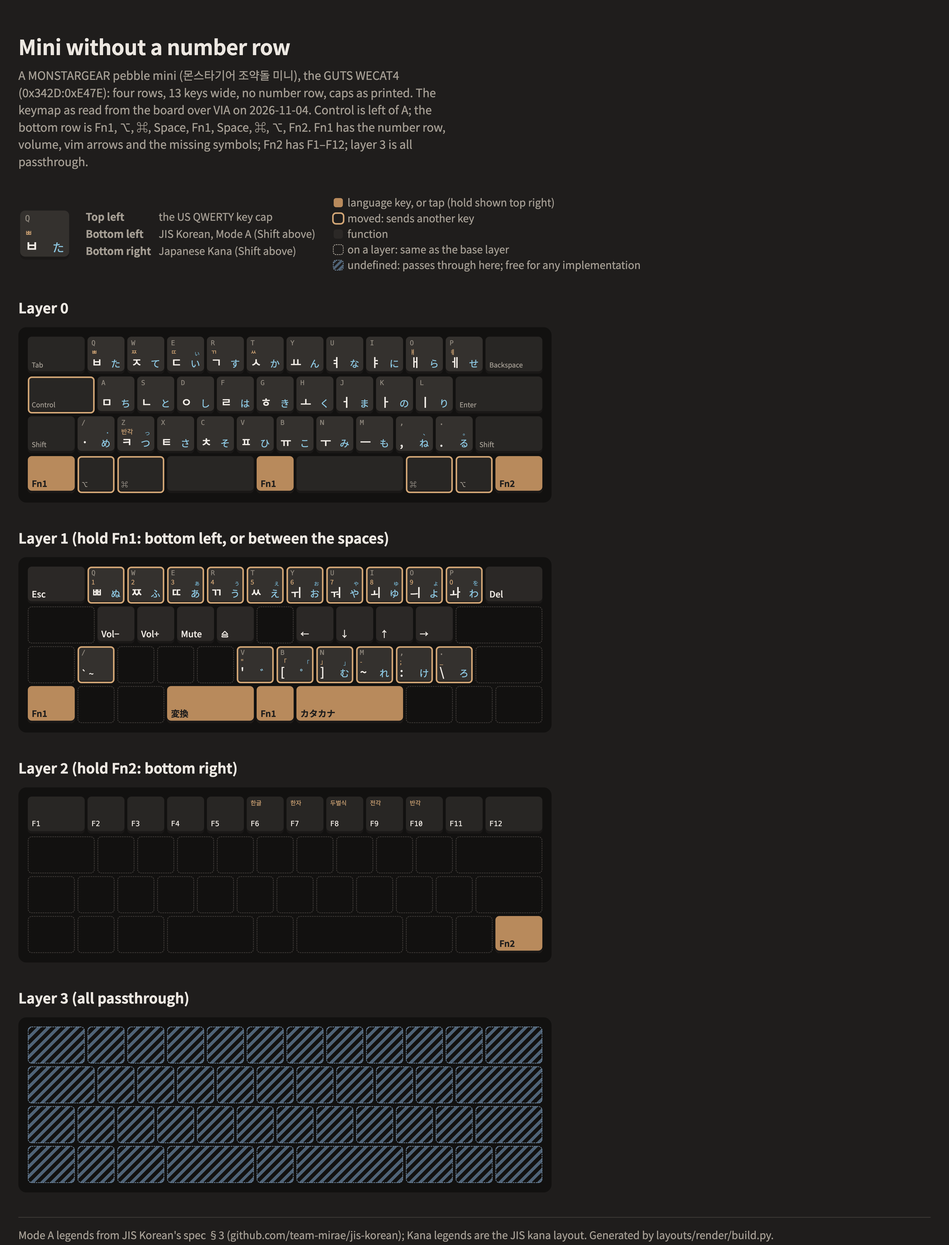
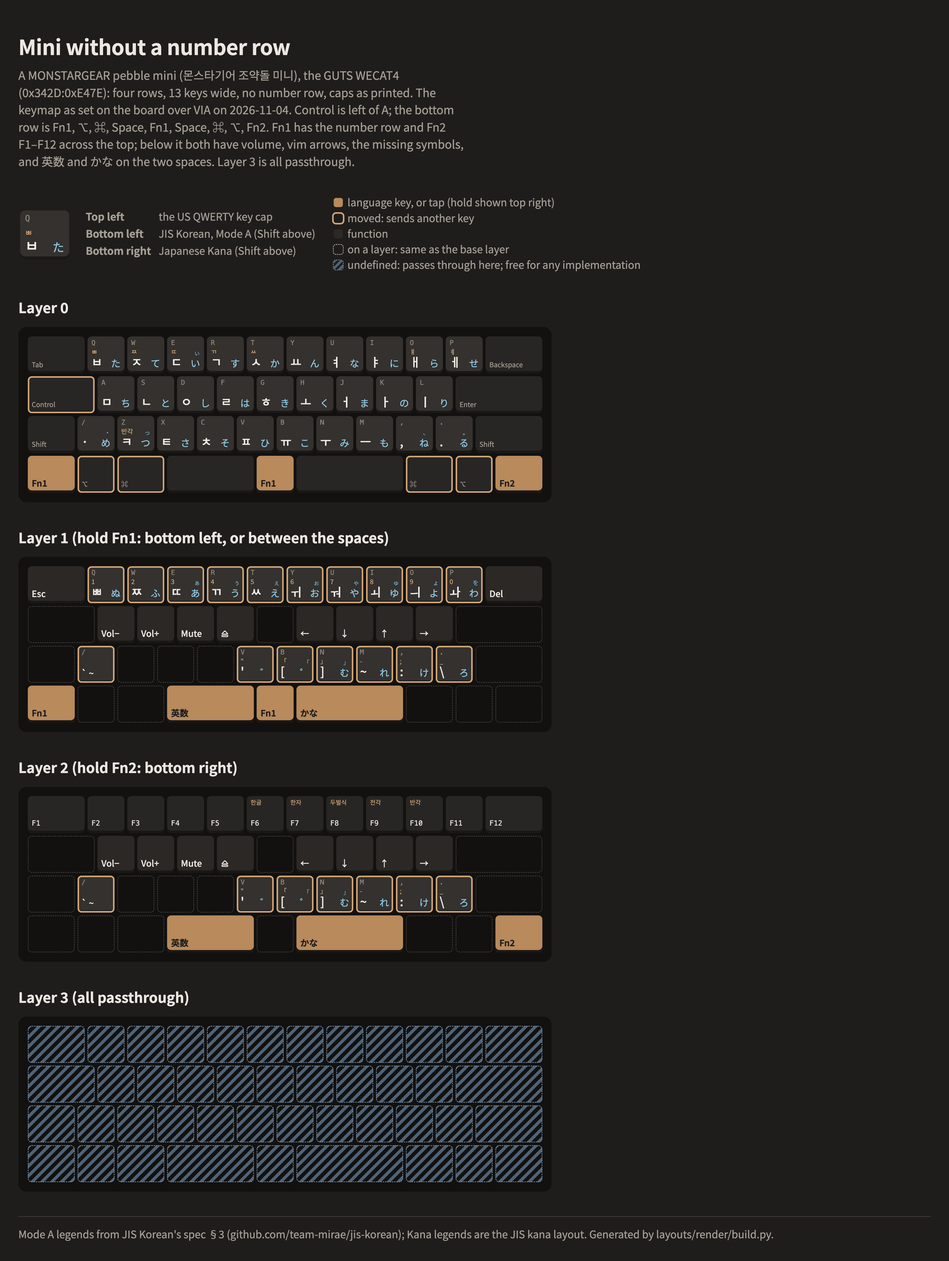
layouts/mini-numberless: 英数 and かな on Fn + Space, Fn2 the same as Fn1 below the top row
Fn1 + left / right Space were 変換 and カタカナ, which macOS drops or turns into かな; they're now
KC_LNG2 (英数) and KC_LNG1 (かな). Every key that was passthrough on Fn2 but bound on Fn1 now
has Fn1's binding, so volume, arrows, symbols and the language keys work with either Fn; Fn2's
F1-F12 are unchanged. Set on the board over VIA.

diff --git a/layouts/mini-numberless/layout.html b/layouts/mini-numberless/layout.html
@@ -76,7 +76,7 @@ footer { color: var(--muted); font-size: 0.85rem; border-top: 1px solid var(--bo
 <body>
 <main id="main"></main>
 <script>
-const DATA = {"title": "Mini without a number row", "lede": "A MONSTARGEAR pebble mini (몬스타기어 조약돌 미니), the GUTS WECAT4 (0x342D:0xE47E): four rows, 13 keys wide, no number row, caps as printed. The keymap as read from the board over VIA on 2026-11-04. Control is left of A; the bottom row is Fn1, ⌥, ⌘, Space, Fn1, Space, ⌘, ⌥, Fn2. Fn1 has the number row, volume, vim arrows and the missing symbols; Fn2 has F1–F12; layer 3 is all passthrough.", "keys": [{"id": "Tab", "us": "Tab", "x": 0.0, "y": 0.0, "w": 1.5, "h": 1}, {"id": "KeyQ", "us": "Q", "x": 1.5, "y": 0.0, "w": 1, "h": 1}, {"id": "KeyW", "us": "W", "x": 2.5, "y": 0.0, "w": 1, "h": 1}, {"id": "KeyE", "us": "E", "x": 3.5, "y": 0.0, "w": 1, "h": 1}, {"id": "KeyR", "us": "R", "x": 4.5, "y": 0.0, "w": 1, "h": 1}, {"id": "KeyT", "us": "T", "x": 5.5, "y": 0.0, "w": 1, "h": 1}, {"id": "KeyY", "us": "Y", "x": 6.5, "y": 0.0, "w": 1, "h": 1}, {"id": "KeyU", "us": "U", "x": 7.5, "y": 0.0, "w": 1, "h": 1}, {"id": "KeyI", "us": "I", "x": 8.5, "y": 0.0, "w": 1, "h": 1}, {"id": "KeyO", "us": "O", "x": 9.5, "y": 0.0, "w": 1, "h": 1}, {"id": "KeyP", "us": "P", "x": 10.5, "y": 0.0, "w": 1, "h": 1}, {"id": "Backspace", "us": "Backspace", "x": 11.5, "y": 0.0, "w": 1.5, "h": 1}, {"id": "CapsLock", "us": "Caps Lock", "x": 0.0, "y": 1.0, "w": 1.75, "h": 1}, {"id": "KeyA", "us": "A", "x": 1.75, "y": 1.0, "w": 1, "h": 1}, {"id": "KeyS", "us": "S", "x": 2.75, "y": 1.0, "w": 1, "h": 1}, {"id": "KeyD", "us": "D", "x": 3.75, "y": 1.0, "w": 1, "h": 1}, {"id": "KeyF", "us": "F", "x": 4.75, "y": 1.0, "w": 1, "h": 1}, {"id": "KeyG", "us": "G", "x": 5.75, "y": 1.0, "w": 1, "h": 1}, {"id": "KeyH", "us": "H", "x": 6.75, "y": 1.0, "w": 1, "h": 1}, {"id": "KeyJ", "us": "J", "x": 7.75, "y": 1.0, "w": 1, "h": 1}, {"id": "KeyK", "us": "K", "x": 8.75, "y": 1.0, "w": 1, "h": 1}, {"id": "KeyL", "us": "L", "x": 9.75, "y": 1.0, "w": 1, "h": 1}, {"id": "Enter", "us": "Enter", "x": 10.75, "y": 1.0, "w": 2.25, "h": 1}, {"id": "ShiftLeft", "us": "Shift", "x": 0.0, "y": 2.0, "w": 1.25, "h": 1}, {"id": "Slash", "us": "/", "x": 1.25, "y": 2.0, "w": 1, "h": 1}, {"id": "KeyZ", "us": "Z", "x": 2.25, "y": 2.0, "w": 1, "h": 1}, {"id": "KeyX", "us": "X", "x": 3.25, "y": 2.0, "w": 1, "h": 1}, {"id": "KeyC", "us": "C", "x": 4.25, "y": 2.0, "w": 1, "h": 1}, {"id": "KeyV", "us": "V", "x": 5.25, "y": 2.0, "w": 1, "h": 1}, {"id": "KeyB", "us": "B", "x": 6.25, "y": 2.0, "w": 1, "h": 1}, {"id": "KeyN", "us": "N", "x": 7.25, "y": 2.0, "w": 1, "h": 1}, {"id": "KeyM", "us": "M", "x": 8.25, "y": 2.0, "w": 1, "h": 1}, {"id": "Comma", "us": ",", "x": 9.25, "y": 2.0, "w": 1, "h": 1}, {"id": "Period", "us": ".", "x": 10.25, "y": 2.0, "w": 1, "h": 1}, {"id": "ShiftRight", "us": "Shift", "x": 11.25, "y": 2.0, "w": 1.75, "h": 1}, {"id": "ControlLeft", "us": "Ctrl", "x": 0.0, "y": 3.0, "w": 1.25, "h": 1}, {"id": "MetaLeft", "us": "Win", "x": 1.25, "y": 3.0, "w": 1, "h": 1}, {"id": "AltLeft", "us": "Alt", "x": 2.25, "y": 3.0, "w": 1.25, "h": 1}, {"id": "Space", "us": "", "x": 3.5, "y": 3.0, "w": 2.25, "h": 1}, {"id": "KeyHHKBFunctionTwo", "us": "Fn", "x": 5.75, "y": 3.0, "w": 1, "h": 1}, {"id": "SpaceRight", "us": "", "x": 6.75, "y": 3.0, "w": 2.75, "h": 1}, {"id": "AltRight", "us": "Alt", "x": 9.5, "y": 3.0, "w": 1.25, "h": 1}, {"id": "ContextMenu", "us": "Menu", "x": 10.75, "y": 3.0, "w": 1, "h": 1}, {"id": "ControlRight", "us": "Ctrl", "x": 11.75, "y": 3.0, "w": 1.25, "h": 1}], "capLegend": "the US QWERTY key cap", "plain": false, "layers": [{"name": "Layer 0", "keys": {"Tab": {"kind": "mod", "label": "Tab", "moved": false}, "KeyQ": {"kind": "send", "code": "KeyQ"}, "KeyW": {"kind": "send", "code": "KeyW"}, "KeyE": {"kind": "send", "code": "KeyE"}, "KeyR": {"kind": "send", "code": "KeyR"}, "KeyT": {"kind": "send", "code": "KeyT"}, "KeyY": {"kind": "send", "code": "KeyY"}, "KeyU": {"kind": "send", "code": "KeyU"}, "KeyI": {"kind": "send", "code": "KeyI"}, "KeyO": {"kind": "send", "code": "KeyO"}, "KeyP": {"kind": "send", "code": "KeyP"}, "Backspace": {"kind": "mod", "label": "Backspace", "moved": false}, "CapsLock": {"kind": "mod", "label": "Control", "moved": true}, "KeyA": {"kind": "send", "code": "KeyA"}, "KeyS": {"kind": "send", "code": "KeyS"}, "KeyD": {"kind": "send", "code": "KeyD"}, "KeyF": {"kind": "send", "code": "KeyF"}, "KeyG": {"kind": "send", "code": "KeyG"}, "KeyH": {"kind": "send", "code": "KeyH"}, "KeyJ": {"kind": "send", "code": "KeyJ"}, "KeyK": {"kind": "send", "code": "KeyK"}, "KeyL": {"kind": "send", "code": "KeyL"}, "Enter": {"kind": "mod", "label": "Enter", "moved": false}, "ShiftLeft": {"kind": "mod", "label": "Shift", "moved": false}, "Slash": {"kind": "send", "code": "Slash"}, "KeyZ": {"kind": "send", "code": "KeyZ"}, "KeyX": {"kind": "send", "code": "KeyX"}, "KeyC": {"kind": "send", "code": "KeyC"}, "KeyV": {"kind": "send", "code": "KeyV"}, "KeyB": {"kind": "send", "code": "KeyB"}, "KeyN": {"kind": "send", "code": "KeyN"}, "KeyM": {"kind": "send", "code": "KeyM"}, "Comma": {"kind": "send", "code": "Comma"}, "Period": {"kind": "send", "code": "Period"}, "ShiftRight": {"kind": "mod", "label": "Shift", "moved": false}, "ControlLeft": {"kind": "lang", "tap": "Fn1", "hold": ""}, "MetaLeft": {"kind": "mod", "label": "⌥", "moved": true}, "AltLeft": {"kind": "mod", "label": "⌘", "moved": true}, "Space": {"kind": "mod", "label": "", "moved": false}, "KeyHHKBFunctionTwo": {"kind": "lang", "tap": "Fn1", "hold": ""}, "SpaceRight": {"kind": "mod", "label": "", "moved": false}, "AltRight": {"kind": "mod", "label": "⌘", "moved": true}, "ContextMenu": {"kind": "mod", "label": "⌥", "moved": true}, "ControlRight": {"kind": "lang", "tap": "Fn2", "hold": ""}}}, {"name": "Layer 1 (hold Fn1: bottom left, or between the spaces)", "keys": {"Tab": {"kind": "fn", "label": "Esc", "small": "", "moved": false}, "KeyQ": {"kind": "send", "code": "Digit1"}, "KeyW": {"kind": "send", "code": "Digit2"}, "KeyE": {"kind": "send", "code": "Digit3"}, "KeyR": {"kind": "send", "code": "Digit4"}, "KeyT": {"kind": "send", "code": "Digit5"}, "KeyY": {"kind": "send", "code": "Digit6"}, "KeyU": {"kind": "send", "code": "Digit7"}, "KeyI": {"kind": "send", "code": "Digit8"}, "KeyO": {"kind": "send", "code": "Digit9"}, "KeyP": {"kind": "send", "code": "Digit0"}, "Backspace": {"kind": "fn", "label": "Del", "small": "", "moved": false}, "CapsLock": {"kind": "blank"}, "KeyA": {"kind": "fn", "label": "Vol−", "small": "", "moved": false}, "KeyS": {"kind": "fn", "label": "Vol+", "small": "", "moved": false}, "KeyD": {"kind": "fn", "label": "Mute", "small": "", "moved": false}, "KeyF": {"kind": "fn", "label": "⏏", "small": "", "moved": false}, "KeyG": {"kind": "blank"}, "KeyH": {"kind": "fn", "label": "←", "small": "", "moved": false}, "KeyJ": {"kind": "fn", "label": "↓", "small": "", "moved": false}, "KeyK": {"kind": "fn", "label": "↑", "small": "", "moved": false}, "KeyL": {"kind": "fn", "label": "→", "small": "", "moved": false}, "Enter": {"kind": "blank"}, "ShiftLeft": {"kind": "blank"}, "Slash": {"kind": "send", "code": "Backquote"}, "KeyZ": {"kind": "blank"}, "KeyX": {"kind": "blank"}, "KeyC": {"kind": "blank"}, "KeyV": {"kind": "send", "code": "BracketLeft"}, "KeyB": {"kind": "send", "code": "BracketRight"}, "KeyN": {"kind": "send", "code": "Backslash"}, "KeyM": {"kind": "send", "code": "Semicolon"}, "Comma": {"kind": "send", "code": "Quote"}, "Period": {"kind": "send", "code": "IntlRo"}, "ShiftRight": {"kind": "blank"}, "ControlLeft": {"kind": "lang", "tap": "Fn1", "hold": ""}, "MetaLeft": {"kind": "blank"}, "AltLeft": {"kind": "blank"}, "Space": {"kind": "lang", "tap": "変換", "hold": ""}, "KeyHHKBFunctionTwo": {"kind": "lang", "tap": "Fn1", "hold": ""}, "SpaceRight": {"kind": "lang", "tap": "カタカナ", "hold": ""}, "AltRight": {"kind": "blank"}, "ContextMenu": {"kind": "blank"}, "ControlRight": {"kind": "blank"}}}, {"name": "Layer 2 (hold Fn2: bottom right)", "keys": {"Tab": {"kind": "fkey", "label": "F1", "jk": "", "moved": false}, "KeyQ": {"kind": "fkey", "label": "F2", "jk": "", "moved": false}, "KeyW": {"kind": "fkey", "label": "F3", "jk": "", "moved": false}, "KeyE": {"kind": "fkey", "label": "F4", "jk": "", "moved": false}, "KeyR": {"kind": "fkey", "label": "F5", "jk": "", "moved": false}, "KeyT": {"kind": "fkey", "label": "F6", "jk": "한글", "moved": false}, "KeyY": {"kind": "fkey", "label": "F7", "jk": "한자", "moved": false}, "KeyU": {"kind": "fkey", "label": "F8", "jk": "두벌식", "moved": false}, "KeyI": {"kind": "fkey", "label": "F9", "jk": "전각", "moved": false}, "KeyO": {"kind": "fkey", "label": "F10", "jk": "반각", "moved": false}, "KeyP": {"kind": "fkey", "label": "F11", "jk": "", "moved": false}, "Backspace": {"kind": "fkey", "label": "F12", "jk": "", "moved": false}, "CapsLock": {"kind": "blank"}, "KeyA": {"kind": "blank"}, "KeyS": {"kind": "blank"}, "KeyD": {"kind": "blank"}, "KeyF": {"kind": "blank"}, "KeyG": {"kind": "blank"}, "KeyH": {"kind": "blank"}, "KeyJ": {"kind": "blank"}, "KeyK": {"kind": "blank"}, "KeyL": {"kind": "blank"}, "Enter": {"kind": "blank"}, "ShiftLeft": {"kind": "blank"}, "Slash": {"kind": "blank"}, "KeyZ": {"kind": "blank"}, "KeyX": {"kind": "blank"}, "KeyC": {"kind": "blank"}, "KeyV": {"kind": "blank"}, "KeyB": {"kind": "blank"}, "KeyN": {"kind": "blank"}, "KeyM": {"kind": "blank"}, "Comma": {"kind": "blank"}, "Period": {"kind": "blank"}, "ShiftRight": {"kind": "blank"}, "ControlLeft": {"kind": "blank"}, "MetaLeft": {"kind": "blank"}, "AltLeft": {"kind": "blank"}, "Space": {"kind": "blank"}, "KeyHHKBFunctionTwo": {"kind": "blank"}, "SpaceRight": {"kind": "blank"}, "AltRight": {"kind": "blank"}, "ContextMenu": {"kind": "blank"}, "ControlRight": {"kind": "lang", "tap": "Fn2", "hold": ""}}}, {"name": "Layer 3 (all passthrough)", "keys": {"Tab": {"kind": "undef"}, "KeyQ": {"kind": "undef"}, "KeyW": {"kind": "undef"}, "KeyE": {"kind": "undef"}, "KeyR": {"kind": "undef"}, "KeyT": {"kind": "undef"}, "KeyY": {"kind": "undef"}, "KeyU": {"kind": "undef"}, "KeyI": {"kind": "undef"}, "KeyO": {"kind": "undef"}, "KeyP": {"kind": "undef"}, "Backspace": {"kind": "undef"}, "CapsLock": {"kind": "undef"}, "KeyA": {"kind": "undef"}, "KeyS": {"kind": "undef"}, "KeyD": {"kind": "undef"}, "KeyF": {"kind": "undef"}, "KeyG": {"kind": "undef"}, "KeyH": {"kind": "undef"}, "KeyJ": {"kind": "undef"}, "KeyK": {"kind": "undef"}, "KeyL": {"kind": "undef"}, "Enter": {"kind": "undef"}, "ShiftLeft": {"kind": "undef"}, "Slash": {"kind": "undef"}, "KeyZ": {"kind": "undef"}, "KeyX": {"kind": "undef"}, "KeyC": {"kind": "undef"}, "KeyV": {"kind": "undef"}, "KeyB": {"kind": "undef"}, "KeyN": {"kind": "undef"}, "KeyM": {"kind": "undef"}, "Comma": {"kind": "undef"}, "Period": {"kind": "undef"}, "ShiftRight": {"kind": "undef"}, "ControlLeft": {"kind": "undef"}, "MetaLeft": {"kind": "undef"}, "AltLeft": {"kind": "undef"}, "Space": {"kind": "undef"}, "KeyHHKBFunctionTwo": {"kind": "undef"}, "SpaceRight": {"kind": "undef"}, "AltRight": {"kind": "undef"}, "ContextMenu": {"kind": "undef"}, "ControlRight": {"kind": "undef"}}}], "modeA": {"Digit1": ["ㅃ", "1"], "Digit2": ["ㅉ", "2"], "Digit3": ["ㄸ", "3"], "Digit4": ["ㄲ", "4"], "Digit5": ["ㅆ", "5"], "Digit6": ["ㅟ", "6"], "Digit7": ["ㅝ", "7"], "Digit8": ["ㅚ", "8"], "Digit9": ["ㅢ", "9"], "Digit0": ["ㅘ", "0"], "Minus": ["!", "?"], "Equal": ["(", ")"], "IntlYen": ["—", "^"], "KeyQ": ["ㅂ", "ㅃ"], "KeyW": ["ㅈ", "ㅉ"], "KeyE": ["ㄷ", "ㄸ"], "KeyR": ["ㄱ", "ㄲ"], "KeyT": ["ㅅ", "ㅆ"], "KeyY": ["ㅛ", null], "KeyU": ["ㅕ", null], "KeyI": ["ㅑ", null], "KeyO": ["ㅐ", "ㅒ"], "KeyP": ["ㅔ", "ㅖ"], "BracketLeft": ["'", "\""], "BracketRight": ["[", "「"], "KeyA": ["ㅁ", null], "KeyS": ["ㄴ", null], "KeyD": ["ㅇ", null], "KeyF": ["ㄹ", null], "KeyG": ["ㅎ", null], "KeyH": ["ㅗ", null], "KeyJ": ["ㅓ", null], "KeyK": ["ㅏ", null], "KeyL": ["ㅣ", null], "Semicolon": ["~", "-"], "Quote": [":", ";"], "Backslash": ["]", "」"], "KeyZ": ["ㅋ", "반각"], "KeyX": ["ㅌ", null], "KeyC": ["ㅊ", null], "KeyV": ["ㅍ", null], "KeyB": ["ㅠ", null], "KeyN": ["ㅜ", null], "KeyM": ["ㅡ", null], "Comma": [",", null], "Period": [".", null], "Slash": ["·", null], "IntlRo": ["\\", "_"]}, "kana": {"Digit1": ["ぬ", null], "Digit2": ["ふ", null], "Digit3": ["あ", "ぁ"], "Digit4": ["う", "ぅ"], "Digit5": ["え", "ぇ"], "Digit6": ["お", "ぉ"], "Digit7": ["や", "ゃ"], "Digit8": ["ゆ", "ゅ"], "Digit9": ["よ", "ょ"], "Digit0": ["わ", "を"], "Minus": ["ほ", null], "Equal": ["へ", null], "IntlYen": ["ー", null], "KeyQ": ["た", null], "KeyW": ["て", null], "KeyE": ["い", "ぃ"], "KeyR": ["す", null], "KeyT": ["か", null], "KeyY": ["ん", null], "KeyU": ["な", null], "KeyI": ["に", null], "KeyO": ["ら", null], "KeyP": ["せ", null], "BracketLeft": ["゛", null], "BracketRight": ["゜", "「"], "KeyA": ["ち", null], "KeyS": ["と", null], "KeyD": ["し", null], "KeyF": ["は", null], "KeyG": ["き", null], "KeyH": ["く", null], "KeyJ": ["ま", null], "KeyK": ["の", null], "KeyL": ["り", null], "Semicolon": ["れ", null], "Quote": ["け", null], "Backslash": ["む", "」"], "KeyZ": ["つ", "っ"], "KeyX": ["さ", null], "KeyC": ["そ", null], "KeyV": ["ひ", null], "KeyB": ["こ", null], "KeyN": ["み", null], "KeyM": ["も", null], "Comma": ["ね", "、"], "Period": ["る", "。"], "Slash": ["め", "・"], "IntlRo": ["ろ", null]}, "koLegend": "JIS Korean, Mode A (Shift above)", "kanaLegend": "Japanese Kana (Shift above)", "footer": "Mode A legends from JIS Korean's spec §3 (github.com/team-mirae/jis-korean); Kana legends are the JIS kana layout. "};
+const DATA = {"title": "Mini without a number row", "lede": "A MONSTARGEAR pebble mini (몬스타기어 조약돌 미니), the GUTS WECAT4 (0x342D:0xE47E): four rows, 13 keys wide, no number row, caps as printed. The keymap as set on the board over VIA on 2026-11-04. Control is left of A; the bottom row is Fn1, ⌥, ⌘, Space, Fn1, Space, ⌘, ⌥, Fn2. Fn1 has the number row and Fn2 F1–F12 across the top; below it both have volume, vim arrows, the missing symbols, and 英数 and かな on the two spaces. Layer 3 is all passthrough.", "keys": [{"id": "Tab", "us": "Tab", "x": 0.0, "y": 0.0, "w": 1.5, "h": 1}, {"id": "KeyQ", "us": "Q", "x": 1.5, "y": 0.0, "w": 1, "h": 1}, {"id": "KeyW", "us": "W", "x": 2.5, "y": 0.0, "w": 1, "h": 1}, {"id": "KeyE", "us": "E", "x": 3.5, "y": 0.0, "w": 1, "h": 1}, {"id": "KeyR", "us": "R", "x": 4.5, "y": 0.0, "w": 1, "h": 1}, {"id": "KeyT", "us": "T", "x": 5.5, "y": 0.0, "w": 1, "h": 1}, {"id": "KeyY", "us": "Y", "x": 6.5, "y": 0.0, "w": 1, "h": 1}, {"id": "KeyU", "us": "U", "x": 7.5, "y": 0.0, "w": 1, "h": 1}, {"id": "KeyI", "us": "I", "x": 8.5, "y": 0.0, "w": 1, "h": 1}, {"id": "KeyO", "us": "O", "x": 9.5, "y": 0.0, "w": 1, "h": 1}, {"id": "KeyP", "us": "P", "x": 10.5, "y": 0.0, "w": 1, "h": 1}, {"id": "Backspace", "us": "Backspace", "x": 11.5, "y": 0.0, "w": 1.5, "h": 1}, {"id": "CapsLock", "us": "Caps Lock", "x": 0.0, "y": 1.0, "w": 1.75, "h": 1}, {"id": "KeyA", "us": "A", "x": 1.75, "y": 1.0, "w": 1, "h": 1}, {"id": "KeyS", "us": "S", "x": 2.75, "y": 1.0, "w": 1, "h": 1}, {"id": "KeyD", "us": "D", "x": 3.75, "y": 1.0, "w": 1, "h": 1}, {"id": "KeyF", "us": "F", "x": 4.75, "y": 1.0, "w": 1, "h": 1}, {"id": "KeyG", "us": "G", "x": 5.75, "y": 1.0, "w": 1, "h": 1}, {"id": "KeyH", "us": "H", "x": 6.75, "y": 1.0, "w": 1, "h": 1}, {"id": "KeyJ", "us": "J", "x": 7.75, "y": 1.0, "w": 1, "h": 1}, {"id": "KeyK", "us": "K", "x": 8.75, "y": 1.0, "w": 1, "h": 1}, {"id": "KeyL", "us": "L", "x": 9.75, "y": 1.0, "w": 1, "h": 1}, {"id": "Enter", "us": "Enter", "x": 10.75, "y": 1.0, "w": 2.25, "h": 1}, {"id": "ShiftLeft", "us": "Shift", "x": 0.0, "y": 2.0, "w": 1.25, "h": 1}, {"id": "Slash", "us": "/", "x": 1.25, "y": 2.0, "w": 1, "h": 1}, {"id": "KeyZ", "us": "Z", "x": 2.25, "y": 2.0, "w": 1, "h": 1}, {"id": "KeyX", "us": "X", "x": 3.25, "y": 2.0, "w": 1, "h": 1}, {"id": "KeyC", "us": "C", "x": 4.25, "y": 2.0, "w": 1, "h": 1}, {"id": "KeyV", "us": "V", "x": 5.25, "y": 2.0, "w": 1, "h": 1}, {"id": "KeyB", "us": "B", "x": 6.25, "y": 2.0, "w": 1, "h": 1}, {"id": "KeyN", "us": "N", "x": 7.25, "y": 2.0, "w": 1, "h": 1}, {"id": "KeyM", "us": "M", "x": 8.25, "y": 2.0, "w": 1, "h": 1}, {"id": "Comma", "us": ",", "x": 9.25, "y": 2.0, "w": 1, "h": 1}, {"id": "Period", "us": ".", "x": 10.25, "y": 2.0, "w": 1, "h": 1}, {"id": "ShiftRight", "us": "Shift", "x": 11.25, "y": 2.0, "w": 1.75, "h": 1}, {"id": "ControlLeft", "us": "Ctrl", "x": 0.0, "y": 3.0, "w": 1.25, "h": 1}, {"id": "MetaLeft", "us": "Win", "x": 1.25, "y": 3.0, "w": 1, "h": 1}, {"id": "AltLeft", "us": "Alt", "x": 2.25, "y": 3.0, "w": 1.25, "h": 1}, {"id": "Space", "us": "", "x": 3.5, "y": 3.0, "w": 2.25, "h": 1}, {"id": "KeyHHKBFunctionTwo", "us": "Fn", "x": 5.75, "y": 3.0, "w": 1, "h": 1}, {"id": "SpaceRight", "us": "", "x": 6.75, "y": 3.0, "w": 2.75, "h": 1}, {"id": "AltRight", "us": "Alt", "x": 9.5, "y": 3.0, "w": 1.25, "h": 1}, {"id": "ContextMenu", "us": "Menu", "x": 10.75, "y": 3.0, "w": 1, "h": 1}, {"id": "ControlRight", "us": "Ctrl", "x": 11.75, "y": 3.0, "w": 1.25, "h": 1}], "capLegend": "the US QWERTY key cap", "plain": false, "layers": [{"name": "Layer 0", "keys": {"Tab": {"kind": "mod", "label": "Tab", "moved": false}, "KeyQ": {"kind": "send", "code": "KeyQ"}, "KeyW": {"kind": "send", "code": "KeyW"}, "KeyE": {"kind": "send", "code": "KeyE"}, "KeyR": {"kind": "send", "code": "KeyR"}, "KeyT": {"kind": "send", "code": "KeyT"}, "KeyY": {"kind": "send", "code": "KeyY"}, "KeyU": {"kind": "send", "code": "KeyU"}, "KeyI": {"kind": "send", "code": "KeyI"}, "KeyO": {"kind": "send", "code": "KeyO"}, "KeyP": {"kind": "send", "code": "KeyP"}, "Backspace": {"kind": "mod", "label": "Backspace", "moved": false}, "CapsLock": {"kind": "mod", "label": "Control", "moved": true}, "KeyA": {"kind": "send", "code": "KeyA"}, "KeyS": {"kind": "send", "code": "KeyS"}, "KeyD": {"kind": "send", "code": "KeyD"}, "KeyF": {"kind": "send", "code": "KeyF"}, "KeyG": {"kind": "send", "code": "KeyG"}, "KeyH": {"kind": "send", "code": "KeyH"}, "KeyJ": {"kind": "send", "code": "KeyJ"}, "KeyK": {"kind": "send", "code": "KeyK"}, "KeyL": {"kind": "send", "code": "KeyL"}, "Enter": {"kind": "mod", "label": "Enter", "moved": false}, "ShiftLeft": {"kind": "mod", "label": "Shift", "moved": false}, "Slash": {"kind": "send", "code": "Slash"}, "KeyZ": {"kind": "send", "code": "KeyZ"}, "KeyX": {"kind": "send", "code": "KeyX"}, "KeyC": {"kind": "send", "code": "KeyC"}, "KeyV": {"kind": "send", "code": "KeyV"}, "KeyB": {"kind": "send", "code": "KeyB"}, "KeyN": {"kind": "send", "code": "KeyN"}, "KeyM": {"kind": "send", "code": "KeyM"}, "Comma": {"kind": "send", "code": "Comma"}, "Period": {"kind": "send", "code": "Period"}, "ShiftRight": {"kind": "mod", "label": "Shift", "moved": false}, "ControlLeft": {"kind": "lang", "tap": "Fn1", "hold": ""}, "MetaLeft": {"kind": "mod", "label": "⌥", "moved": true}, "AltLeft": {"kind": "mod", "label": "⌘", "moved": true}, "Space": {"kind": "mod", "label": "", "moved": false}, "KeyHHKBFunctionTwo": {"kind": "lang", "tap": "Fn1", "hold": ""}, "SpaceRight": {"kind": "mod", "label": "", "moved": false}, "AltRight": {"kind": "mod", "label": "⌘", "moved": true}, "ContextMenu": {"kind": "mod", "label": "⌥", "moved": true}, "ControlRight": {"kind": "lang", "tap": "Fn2", "hold": ""}}}, {"name": "Layer 1 (hold Fn1: bottom left, or between the spaces)", "keys": {"Tab": {"kind": "fn", "label": "Esc", "small": "", "moved": false}, "KeyQ": {"kind": "send", "code": "Digit1"}, "KeyW": {"kind": "send", "code": "Digit2"}, "KeyE": {"kind": "send", "code": "Digit3"}, "KeyR": {"kind": "send", "code": "Digit4"}, "KeyT": {"kind": "send", "code": "Digit5"}, "KeyY": {"kind": "send", "code": "Digit6"}, "KeyU": {"kind": "send", "code": "Digit7"}, "KeyI": {"kind": "send", "code": "Digit8"}, "KeyO": {"kind": "send", "code": "Digit9"}, "KeyP": {"kind": "send", "code": "Digit0"}, "Backspace": {"kind": "fn", "label": "Del", "small": "", "moved": false}, "CapsLock": {"kind": "blank"}, "KeyA": {"kind": "fn", "label": "Vol−", "small": "", "moved": false}, "KeyS": {"kind": "fn", "label": "Vol+", "small": "", "moved": false}, "KeyD": {"kind": "fn", "label": "Mute", "small": "", "moved": false}, "KeyF": {"kind": "fn", "label": "⏏", "small": "", "moved": false}, "KeyG": {"kind": "blank"}, "KeyH": {"kind": "fn", "label": "←", "small": "", "moved": false}, "KeyJ": {"kind": "fn", "label": "↓", "small": "", "moved": false}, "KeyK": {"kind": "fn", "label": "↑", "small": "", "moved": false}, "KeyL": {"kind": "fn", "label": "→", "small": "", "moved": false}, "Enter": {"kind": "blank"}, "ShiftLeft": {"kind": "blank"}, "Slash": {"kind": "send", "code": "Backquote"}, "KeyZ": {"kind": "blank"}, "KeyX": {"kind": "blank"}, "KeyC": {"kind": "blank"}, "KeyV": {"kind": "send", "code": "BracketLeft"}, "KeyB": {"kind": "send", "code": "BracketRight"}, "KeyN": {"kind": "send", "code": "Backslash"}, "KeyM": {"kind": "send", "code": "Semicolon"}, "Comma": {"kind": "send", "code": "Quote"}, "Period": {"kind": "send", "code": "IntlRo"}, "ShiftRight": {"kind": "blank"}, "ControlLeft": {"kind": "lang", "tap": "Fn1", "hold": ""}, "MetaLeft": {"kind": "blank"}, "AltLeft": {"kind": "blank"}, "Space": {"kind": "lang", "tap": "英数", "hold": ""}, "KeyHHKBFunctionTwo": {"kind": "lang", "tap": "Fn1", "hold": ""}, "SpaceRight": {"kind": "lang", "tap": "かな", "hold": ""}, "AltRight": {"kind": "blank"}, "ContextMenu": {"kind": "blank"}, "ControlRight": {"kind": "blank"}}}, {"name": "Layer 2 (hold Fn2: bottom right)", "keys": {"Tab": {"kind": "fkey", "label": "F1", "jk": "", "moved": false}, "KeyQ": {"kind": "fkey", "label": "F2", "jk": "", "moved": false}, "KeyW": {"kind": "fkey", "label": "F3", "jk": "", "moved": false}, "KeyE": {"kind": "fkey", "label": "F4", "jk": "", "moved": false}, "KeyR": {"kind": "fkey", "label": "F5", "jk": "", "moved": false}, "KeyT": {"kind": "fkey", "label": "F6", "jk": "한글", "moved": false}, "KeyY": {"kind": "fkey", "label": "F7", "jk": "한자", "moved": false}, "KeyU": {"kind": "fkey", "label": "F8", "jk": "두벌식", "moved": false}, "KeyI": {"kind": "fkey", "label": "F9", "jk": "전각", "moved": false}, "KeyO": {"kind": "fkey", "label": "F10", "jk": "반각", "moved": false}, "KeyP": {"kind": "fkey", "label": "F11", "jk": "", "moved": false}, "Backspace": {"kind": "fkey", "label": "F12", "jk": "", "moved": false}, "CapsLock": {"kind": "blank"}, "KeyA": {"kind": "fn", "label": "Vol−", "small": "", "moved": false}, "KeyS": {"kind": "fn", "label": "Vol+", "small": "", "moved": false}, "KeyD": {"kind": "fn", "label": "Mute", "small": "", "moved": false}, "KeyF": {"kind": "fn", "label": "⏏", "small": "", "moved": false}, "KeyG": {"kind": "blank"}, "KeyH": {"kind": "fn", "label": "←", "small": "", "moved": false}, "KeyJ": {"kind": "fn", "label": "↓", "small": "", "moved": false}, "KeyK": {"kind": "fn", "label": "↑", "small": "", "moved": false}, "KeyL": {"kind": "fn", "label": "→", "small": "", "moved": false}, "Enter": {"kind": "blank"}, "ShiftLeft": {"kind": "blank"}, "Slash": {"kind": "send", "code": "Backquote"}, "KeyZ": {"kind": "blank"}, "KeyX": {"kind": "blank"}, "KeyC": {"kind": "blank"}, "KeyV": {"kind": "send", "code": "BracketLeft"}, "KeyB": {"kind": "send", "code": "BracketRight"}, "KeyN": {"kind": "send", "code": "Backslash"}, "KeyM": {"kind": "send", "code": "Semicolon"}, "Comma": {"kind": "send", "code": "Quote"}, "Period": {"kind": "send", "code": "IntlRo"}, "ShiftRight": {"kind": "blank"}, "ControlLeft": {"kind": "blank"}, "MetaLeft": {"kind": "blank"}, "AltLeft": {"kind": "blank"}, "Space": {"kind": "lang", "tap": "英数", "hold": ""}, "KeyHHKBFunctionTwo": {"kind": "blank"}, "SpaceRight": {"kind": "lang", "tap": "かな", "hold": ""}, "AltRight": {"kind": "blank"}, "ContextMenu": {"kind": "blank"}, "ControlRight": {"kind": "lang", "tap": "Fn2", "hold": ""}}}, {"name": "Layer 3 (all passthrough)", "keys": {"Tab": {"kind": "undef"}, "KeyQ": {"kind": "undef"}, "KeyW": {"kind": "undef"}, "KeyE": {"kind": "undef"}, "KeyR": {"kind": "undef"}, "KeyT": {"kind": "undef"}, "KeyY": {"kind": "undef"}, "KeyU": {"kind": "undef"}, "KeyI": {"kind": "undef"}, "KeyO": {"kind": "undef"}, "KeyP": {"kind": "undef"}, "Backspace": {"kind": "undef"}, "CapsLock": {"kind": "undef"}, "KeyA": {"kind": "undef"}, "KeyS": {"kind": "undef"}, "KeyD": {"kind": "undef"}, "KeyF": {"kind": "undef"}, "KeyG": {"kind": "undef"}, "KeyH": {"kind": "undef"}, "KeyJ": {"kind": "undef"}, "KeyK": {"kind": "undef"}, "KeyL": {"kind": "undef"}, "Enter": {"kind": "undef"}, "ShiftLeft": {"kind": "undef"}, "Slash": {"kind": "undef"}, "KeyZ": {"kind": "undef"}, "KeyX": {"kind": "undef"}, "KeyC": {"kind": "undef"}, "KeyV": {"kind": "undef"}, "KeyB": {"kind": "undef"}, "KeyN": {"kind": "undef"}, "KeyM": {"kind": "undef"}, "Comma": {"kind": "undef"}, "Period": {"kind": "undef"}, "ShiftRight": {"kind": "undef"}, "ControlLeft": {"kind": "undef"}, "MetaLeft": {"kind": "undef"}, "AltLeft": {"kind": "undef"}, "Space": {"kind": "undef"}, "KeyHHKBFunctionTwo": {"kind": "undef"}, "SpaceRight": {"kind": "undef"}, "AltRight": {"kind": "undef"}, "ContextMenu": {"kind": "undef"}, "ControlRight": {"kind": "undef"}}}], "modeA": {"Digit1": ["ㅃ", "1"], "Digit2": ["ㅉ", "2"], "Digit3": ["ㄸ", "3"], "Digit4": ["ㄲ", "4"], "Digit5": ["ㅆ", "5"], "Digit6": ["ㅟ", "6"], "Digit7": ["ㅝ", "7"], "Digit8": ["ㅚ", "8"], "Digit9": ["ㅢ", "9"], "Digit0": ["ㅘ", "0"], "Minus": ["!", "?"], "Equal": ["(", ")"], "IntlYen": ["—", "^"], "KeyQ": ["ㅂ", "ㅃ"], "KeyW": ["ㅈ", "ㅉ"], "KeyE": ["ㄷ", "ㄸ"], "KeyR": ["ㄱ", "ㄲ"], "KeyT": ["ㅅ", "ㅆ"], "KeyY": ["ㅛ", null], "KeyU": ["ㅕ", null], "KeyI": ["ㅑ", null], "KeyO": ["ㅐ", "ㅒ"], "KeyP": ["ㅔ", "ㅖ"], "BracketLeft": ["'", "\""], "BracketRight": ["[", "「"], "KeyA": ["ㅁ", null], "KeyS": ["ㄴ", null], "KeyD": ["ㅇ", null], "KeyF": ["ㄹ", null], "KeyG": ["ㅎ", null], "KeyH": ["ㅗ", null], "KeyJ": ["ㅓ", null], "KeyK": ["ㅏ", null], "KeyL": ["ㅣ", null], "Semicolon": ["~", "-"], "Quote": [":", ";"], "Backslash": ["]", "」"], "KeyZ": ["ㅋ", "반각"], "KeyX": ["ㅌ", null], "KeyC": ["ㅊ", null], "KeyV": ["ㅍ", null], "KeyB": ["ㅠ", null], "KeyN": ["ㅜ", null], "KeyM": ["ㅡ", null], "Comma": [",", null], "Period": [".", null], "Slash": ["·", null], "IntlRo": ["\\", "_"]}, "kana": {"Digit1": ["ぬ", null], "Digit2": ["ふ", null], "Digit3": ["あ", "ぁ"], "Digit4": ["う", "ぅ"], "Digit5": ["え", "ぇ"], "Digit6": ["お", "ぉ"], "Digit7": ["や", "ゃ"], "Digit8": ["ゆ", "ゅ"], "Digit9": ["よ", "ょ"], "Digit0": ["わ", "を"], "Minus": ["ほ", null], "Equal": ["へ", null], "IntlYen": ["ー", null], "KeyQ": ["た", null], "KeyW": ["て", null], "KeyE": ["い", "ぃ"], "KeyR": ["す", null], "KeyT": ["か", null], "KeyY": ["ん", null], "KeyU": ["な", null], "KeyI": ["に", null], "KeyO": ["ら", null], "KeyP": ["せ", null], "BracketLeft": ["゛", null], "BracketRight": ["゜", "「"], "KeyA": ["ち", null], "KeyS": ["と", null], "KeyD": ["し", null], "KeyF": ["は", null], "KeyG": ["き", null], "KeyH": ["く", null], "KeyJ": ["ま", null], "KeyK": ["の", null], "KeyL": ["り", null], "Semicolon": ["れ", null], "Quote": ["け", null], "Backslash": ["む", "」"], "KeyZ": ["つ", "っ"], "KeyX": ["さ", null], "KeyC": ["そ", null], "KeyV": ["ひ", null], "KeyB": ["こ", null], "KeyN": ["み", null], "KeyM": ["も", null], "Comma": ["ね", "、"], "Period": ["る", "。"], "Slash": ["め", "・"], "IntlRo": ["ろ", null]}, "koLegend": "JIS Korean, Mode A (Shift above)", "kanaLegend": "Japanese Kana (Shift above)", "footer": "Mode A legends from JIS Korean's spec §3 (github.com/team-mirae/jis-korean); Kana legends are the JIS kana layout. "};
 
 function el(tag, cls, text) {
   const e = document.createElement(tag);

diff --git a/layouts/render/build.py b/layouts/render/build.py
@@ -495,9 +495,16 @@ def layouts():
 
     keys = mini_numberless()
     fn1 = lang("Fn1")
+    fn_shared = {  # Below the top row, Fn1 and Fn2 are the same.
+        "KeyA": fn("Vol−"), "KeyS": fn("Vol+"), "KeyD": fn("Mute"), "KeyF": fn("⏏"),
+        "KeyH": fn("←"), "KeyJ": fn("↓"), "KeyK": fn("↑"), "KeyL": fn("→"),
+        "Slash": send("Backquote"), "KeyV": send("BracketLeft"), "KeyB": send("BracketRight"), "KeyN": send("Backslash"),
+        "KeyM": send("Semicolon"), "Comma": send("Quote"), "Period": send("IntlRo"),
+        "Space": lang("英数"), "SpaceRight": lang("かな"),
+    }
     out["mini-numberless"] = {
         "title": "Mini without a number row",
-        "lede": "A MONSTARGEAR pebble mini (몬스타기어 조약돌 미니), the GUTS WECAT4 (0x342D:0xE47E): four rows, 13 keys wide, no number row, caps as printed. The keymap as read from the board over VIA on 2026-11-04. Control is left of A; the bottom row is Fn1, ⌥, ⌘, Space, Fn1, Space, ⌘, ⌥, Fn2. Fn1 has the number row, volume, vim arrows and the missing symbols; Fn2 has F1–F12; layer 3 is all passthrough.",
+        "lede": "A MONSTARGEAR pebble mini (몬스타기어 조약돌 미니), the GUTS WECAT4 (0x342D:0xE47E): four rows, 13 keys wide, no number row, caps as printed. The keymap as set on the board over VIA on 2026-11-04. Control is left of A; the bottom row is Fn1, ⌥, ⌘, Space, Fn1, Space, ⌘, ⌥, Fn2. Fn1 has the number row and Fn2 F1–F12 across the top; below it both have volume, vim arrows, the missing symbols, and 英数 and かな on the two spaces. Layer 3 is all passthrough.",
         "keys": keys,
         "layers": [
             ("Layer 0", base_layer(keys, {
@@ -508,15 +515,11 @@ def layouts():
             })),
             ("Layer 1 (hold Fn1: bottom left, or between the spaces)", fn_layer(keys, {
                 "Tab": fn("Esc"), **{f"Key{c}": send(f"Digit{d}") for c, d in zip("QWERTYUIOP", "1234567890")}, "Backspace": fn("Del"),
-                "KeyA": fn("Vol−"), "KeyS": fn("Vol+"), "KeyD": fn("Mute"), "KeyF": fn("⏏"),
-                "KeyH": fn("←"), "KeyJ": fn("↓"), "KeyK": fn("↑"), "KeyL": fn("→"),
-                "Slash": send("Backquote"), "KeyV": send("BracketLeft"), "KeyB": send("BracketRight"), "KeyN": send("Backslash"),
-                "KeyM": send("Semicolon"), "Comma": send("Quote"), "Period": send("IntlRo"),
-                "Space": lang("変換"), "SpaceRight": lang("カタカナ"), "ControlLeft": fn1, "KeyHHKBFunctionTwo": fn1,
+                **fn_shared, "ControlLeft": fn1, "KeyHHKBFunctionTwo": fn1,
             })),
             ("Layer 2 (hold Fn2: bottom right)", fn_layer(keys, {
                 "Tab": fkey(1), **{f"Key{c}": fkey(i + 2) for i, c in enumerate("QWERTYUIOP")}, "Backspace": fkey(12),
-                "ControlRight": lang("Fn2"),
+                **fn_shared, "ControlRight": lang("Fn2"),
             })),
             ("Layer 3 (all passthrough)", open_layer(keys, {})),
         ],

diff --git a/layouts/mini-numberless/README.md b/layouts/mini-numberless/README.md
@@ -5,12 +5,12 @@ The keymap of a MONSTARGEAR pebble mini (몬스타기어 조약돌 미니), as i
 
 <picture>
   <source media="(prefers-color-scheme: dark)" srcset="layout-dark.png">
-  <img alt="A 13u four-row board: Control left of A, / left of Z, and Fn1, Option, Command, Space, Fn1, Space, Command, Option, Fn2 along the bottom; the Fn1 layer with the number row, volume, vim arrows and the missing symbols; the Fn2 layer with F1 to F12; and layer 3, all passthrough" src="layout-light.png">
+  <img alt="A 13u four-row board: Control left of A, / left of Z, and Fn1, Option, Command, Space, Fn1, Space, Command, Option, Fn2 along the bottom; the Fn1 layer with the number row, volume, vim arrows, the missing symbols, and 英数 and かな on the spaces; the Fn2 layer, the same with F1 to F12 on the top row; and layer 3, all passthrough" src="layout-light.png">
 </picture>
 
 Reference board: **GUTS WECAT4** (the name it reports; manufacturer "Hangsheng"), stock firmware,
-over USB (`0x342D:0xE47E`), VIA protocol 12, 4 layers, a 4 × 12 matrix. Read over VIA's protocol
-with [viahid](../../via/raw-hid-keymap-editing/README.md) on 2026-11-04;
+over USB (`0x342D:0xE47E`), VIA protocol 12, 4 layers, a 4 × 12 matrix. Read and set over VIA's
+protocol with [viahid](../../via/raw-hid-keymap-editing/README.md) on 2026-11-04;
 [wecat4-keymap.txt](wecat4-keymap.txt) is every layer, and writes it back:
 
 ```sh
@@ -40,13 +40,18 @@ Every other key sends what's printed on it. There's no ; or ' in the base layer:
 | H J K L | ← ↓ ↑ → |
 | / | `` ` `` (`KC_GRV`) |
 | V B N M , . | `[` `]` `\` `;` `'` (US codes 0x2F–0x34) and ろ (`KC_INT1`) |
-| Left Space · right Space | 変換 (`KC_INT4`) · カタカナ (`KC_INT2`) |
+| Left Space · right Space | 英数 (`KC_LNG2`) · かな (`KC_LNG1`) |
 
-The rest pass through (`KC_TRNS`).
+The rest pass through (`KC_TRNS`). The spaces were 変換 (`KC_INT4`) and カタカナ (`KC_INT2`) from the
+factory: macOS drops 変換 and turns カタカナ into かな
+([japanese-keycodes-on-macos](../../qmk/japanese-keycodes-on-macos/README.md)), so they're now the
+Mac's own 英数 and かな.
 
 ## Layer 2 (Fn2: bottom right)
 
-Tab, Q … P and Backspace are F1 … F12. The rest pass through.
+Tab, Q … P and Backspace are F1 … F12. Below the top row, Fn2 is the same as Fn1: volume, arrows,
+symbols, 英数 and かな, so they work with either Fn held. Keys that are passthrough on Fn1 are
+passthrough here too.
 
 ## Layer 3
 
